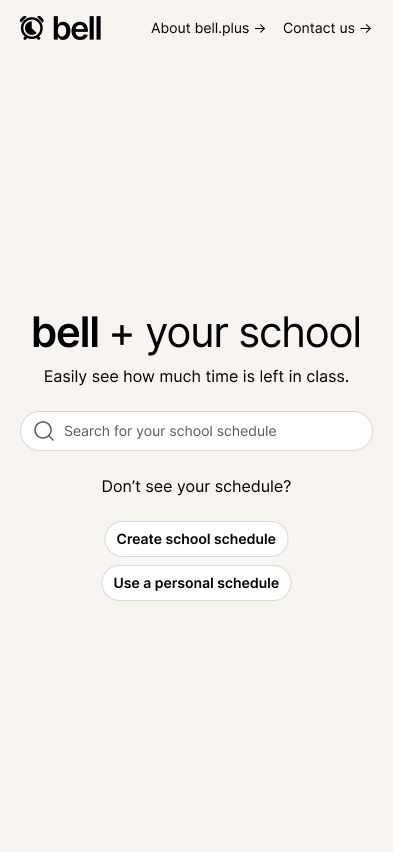
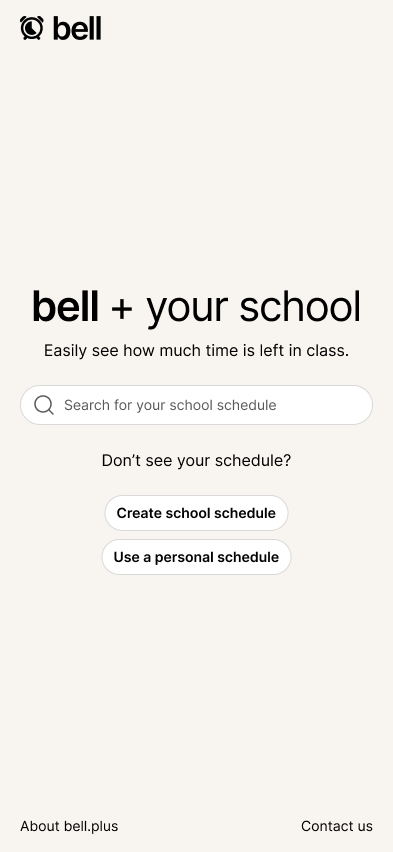
bell.plus: new mobile landing screenshot

diff --git a/bell-plus.html b/bell-plus.html
@@ -278,7 +278,7 @@
               Students often check the time on their phones between classes, so every screen has a mobile version.
             </p>
             <figure class="bell-phones" data-reveal>
-              <img src="assets/images/bell-mobile-landing.png" alt="The landing page on a phone" loading="lazy" />
+              <img src="assets/images/bell-mobile-landing.png?v=2" alt="The landing page on a phone" loading="lazy" />
               <img src="assets/images/bell-mobile-timer.png" alt="The timer on a phone" loading="lazy" />
               <img src="assets/images/bell-mobile-schedule.png" alt="The day's schedule on a phone" loading="lazy" />
             </figure>
